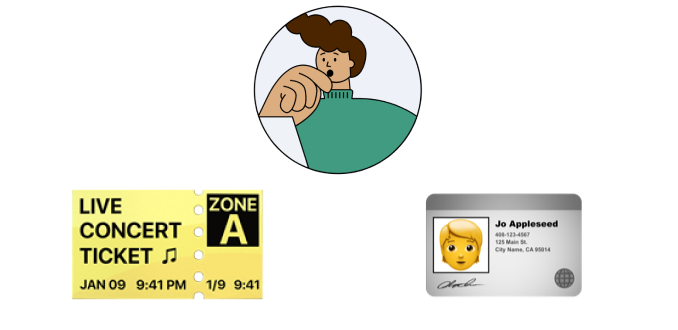
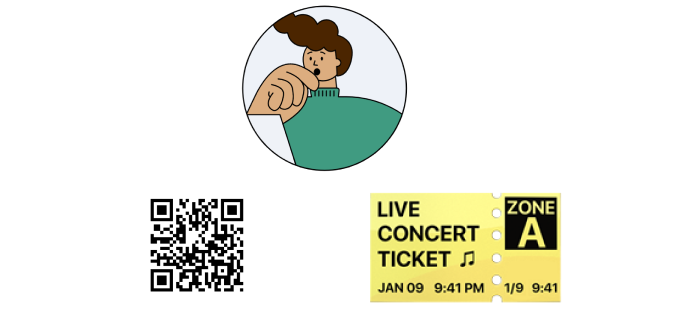
style: asset 교체 및 랜딩페이지 technology section 스타일 수정

Changed region(s): [[0.5265, 0.5758, 0.8673, 0.9091], [0.0929, 0.5758, 0.4027, 0.9091], [0.3407, 0.0, 0.6195, 0.5455]]

diff --git a/src/components/pages/main/Problem.jsx b/src/components/pages/main/Problem.jsx
@@ -1,6 +1,6 @@
 import React from 'react';
 import styled from 'styled-components';
-import { Column } from '@components/atoms/wrapper.style';
+import { Column } from '@atoms/wrapper.style';
 import { Title, TitleBold, Desc } from './main.style';
 import problem_1_img from '@assets/img/problem_1.png';
 import problem_2_img from '@assets/img/problem_2.png';
@@ -21,13 +21,13 @@ const Section = styled(Column)`
 
 // TODO: 색변수 지정 및 클래스네임 변경 필요
 const ImgContainer = styled('div')`
-  width: 100%;
-  height: auto;
-  align-self: center;
   display: flex;
   justify-content: space-between;
-  margin-top: 56px;
+  align-self: center;
+  width: 100%;
+  height: auto;
   padding: 0 3rem;
+  margin-top: 56px;
 
   ${lg`
     margin-top: 40px;
@@ -35,13 +35,14 @@ const ImgContainer = styled('div')`
   `}
 
   & > .left-box {
+    display: flex;
+    flex-direction: column;
+    justify-content: space-between;
+    align-items: center;
     width: 43%;
     height: auto;
     border-radius: 40px;
     padding: 1.75rem;
-    display: flex;
-    flex-direction: column;
-    align-items: center;
 
     ${sm`
       display: none;
@@ -49,15 +50,15 @@ const ImgContainer = styled('div')`
   }
 
   & > .right-box {
-    width: 47%;
-    height: auto;
-    background: rgba(200, 245, 60, 0.1);
-    border: none;
-    border-radius: 40px;
-    padding: 1.75rem;
     display: flex;
     flex-direction: column;
     align-items: center;
+    width: 47%;
+    height: auto;
+    padding: 1.75rem;
+    border: none;
+    border-radius: 40px;
+    background: rgba(200, 245, 60, 0.1);
 
     ${sm`
       width: 100%;
@@ -74,6 +75,7 @@ const ProblemDesc = styled('div')`
   width: 100%;
   text-align: center;
   font-size: 22px;
+  line-height: 29px;
 `;
 
 const Problem = () => {
@@ -124,8 +126,8 @@ const Problem = () => {
           <div className="right-box">
             <ProblemImage src={problem_4_img} alt="problem1" />
             <ProblemDesc>
-              ttot 티켓은
-              <br /> 양도가 불가능합니다.
+              ttot 티켓은 지갑에 쌓아두고
+              <br /> 팬 혜택을 누릴 수 있습니다.
             </ProblemDesc>
           </div>
         </ImgContainer>
@@ -146,15 +148,15 @@ const Problem = () => {
           <div className="left-box">
             <ProblemImage src={problem_5_img} alt="problem1" />
             <ProblemDesc>
-              기존 티켓은
-              <br /> 양도가 가능합니다.
+              기존 티켓은 신분 대조의 과정을 통해
+              <br /> 소유권을 증명합니다.
             </ProblemDesc>
           </div>
           <div className="right-box">
             <ProblemImage src={problem_6_img} alt="problem1" />
             <ProblemDesc>
-              ttot 티켓은
-              <br /> 양도가 불가능합니다.
+              ttot 티켓은 QR코드로
+              <br /> 간편하고 빠르게 소유권을 증명합니다.
             </ProblemDesc>
           </div>
         </ImgContainer>

diff --git a/src/components/pages/main/TechnologyArea.jsx b/src/components/pages/main/TechnologyArea.jsx
@@ -1,22 +1,23 @@
 import React, { forwardRef } from 'react';
 import styled from 'styled-components';
 import Anchor from '@atoms/Anchor';
-import landing_sbt from '@assets/img/landing_sbt.png';
-import { Row } from '@components/atoms/wrapper.style';
-import { TitleBold, Title, Desc } from './main.style';
+import { Row } from '@atoms/wrapper.style';
 import sbt_1 from '@assets/img/sbt_1.png';
 import sbt_2 from '@assets/img/sbt_2.png';
 import sbt_3 from '@assets/img/sbt_3.png';
 import sbt_4 from '@assets/img/sbt_4.png';
+import landing_sbt from '@assets/img/landing_sbt.png';
+import { TitleBold, Title, Desc } from './main.style';
+import { sm, lg } from '@styles/GlobalStyle';
 
 const Container = styled('div')`
+  position: relative;
   display: flex;
   flex-direction: column;
   width: 100%;
   max-width: 1350px;
-  position: relative;
-  padding: 48px;
-  margin-top: 120px;
+  padding: 2.75rem;
+  margin-top: 7.5rem;
 `;
 
 const TechnologyImg = styled('img')`
@@ -24,16 +25,26 @@ const TechnologyImg = styled('img')`
   max-width: 996px;
   height: auto;
   align-self: center;
-  margin: 64px 0;
+  margin: 3.5rem 0;
 `;
 
 const PurposeWrapper = styled(Row)`
   gap: 56px;
+  margin-top: 4rem;
+
+  ${lg`
+    gap: 20px;
+  `};
+
+  ${sm`
+    display: grid;
+    grid-template-rows: 1fr 1fr;
+    grid-template-columns: 1fr 1fr;
+  `};
 `;
 
 const ImgWrapper = styled('div')`
   flex: 1;
-  margin-top: 64px;
 
   & > img {
     width: 100%;

diff --git a/src/components/pages/main/MainHeader.jsx b/src/components/pages/main/MainHeader.jsx
@@ -5,19 +5,19 @@ import * as colors from '@styles/colors';
 import { lg } from '@styles/GlobalStyle';
 
 const Container = styled('div')`
-  height: 7.5rem;
-  width: 100%;
-  align-items: center;
-  display: flex;
-  padding: 0 20px;
   position: fixed;
   top: 0;
+  display: flex;
+  align-items: center;
+  width: 100%;
+  height: 7.5rem;
+  padding: 0 2.75rem;
   background-color: ${colors.bgBlack};
   z-index: 999;
 `;
 
 const LogoImage = styled('img')`
-  width: 100px;
+  width: 192px;
   margin-right: 24px;
 
   ${lg`
